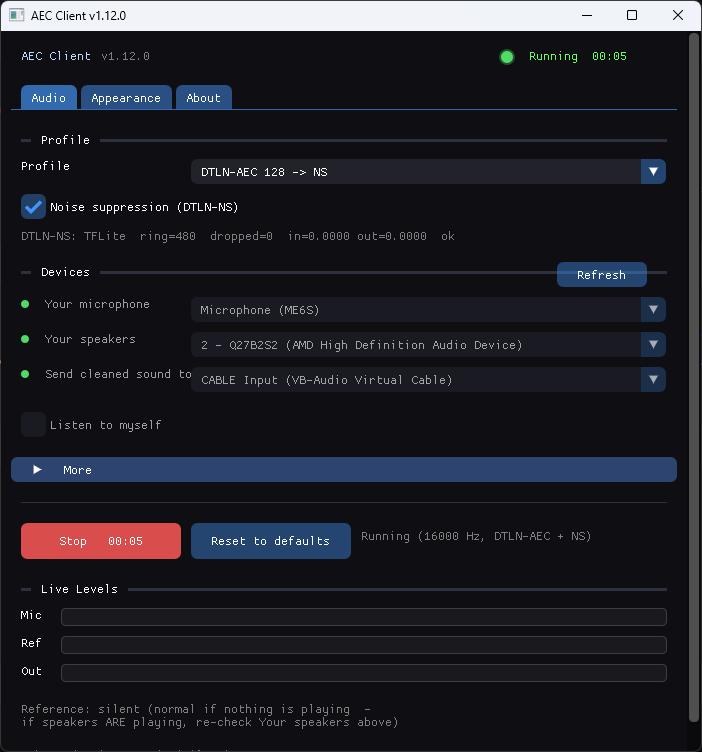
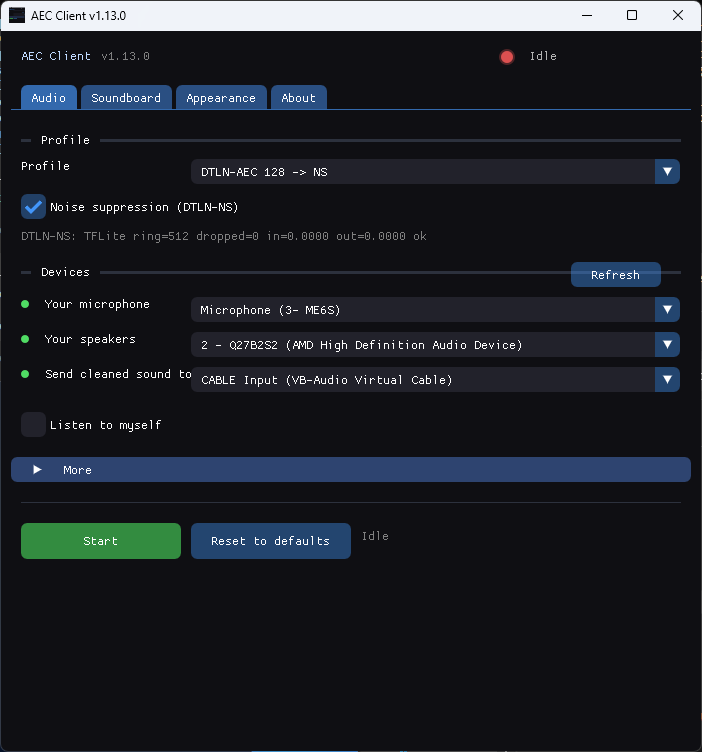
docs(release): v1.13.0 notes, screenshots, VirusTotal record
- CHANGELOG: [Unreleased] -> [1.13.0] - 2026-10-12 (fresh empty
  Unreleased on top); drop the redundant (v1.13.0) tag on the
  soundboard bullet.
- README: hero swaps the deleted side-by-side composite for the
  new main.png + web-ui.png; VirusTotal record v1.12.0 -> v1.13.0
  (both zips 0 detections, exe SecureAge-only, per pre-publish
  scans); structure lists both screenshots.
- web/ui/imgui_web.js: Listen hint no longer claims the Output row
  is hidden while on (showListen keeps it visible + relabeled) —
  retake web-ui.png after rebuilding so the shot matches.

diff --git a/web/ui/imgui_web.js b/web/ui/imgui_web.js
@@ -143,7 +143,7 @@ class WebImGuiUI {
             '<div id="ig-devhint" class="hint" style="color:#ffd75e"></div>' +
             '<label class="chkline"><input type="checkbox" id="ig-listen">Listen to myself</label>' +
             '<div class="hint">Hear yourself through your speakers instead of sending to voice apps — for testing. ' +
-            'Applies after Stop -&gt; Start; the Output row above is hidden while on.</div>';
+            'Applies after Stop -&gt; Start; the Output row above picks the destination in both modes.</div>';
         p.appendChild(rows);
 
         // --- More (Processing + Levels, like the desktop CollapsingHeader) ---

diff --git a/README.md b/README.md
@@ -2,9 +2,10 @@
 
 > Real-time acoustic echo cancellation for Windows — use speakers and a microphone at the same time in Discord, Zoom, Teams, or any other voice app.
 
-![AEC Client — desktop app (left) and web UI (right), same Running state](screenshots/desktop-and-web.png)
+![AEC Client v1.13.0 desktop app](screenshots/main.png)
+![AEC Web v1.13.0 native window](screenshots/web-ui.png)
 
-*Left: desktop `aec_gui.exe`. Right: web UI served from this repo (`web/start.bat`). Same three profiles, same chain, same telemetry — pick the window you prefer.*
+*Top: desktop `aec_gui.exe`. Bottom: web UI in its native window (`web/start.bat`). Same three profiles, same chain, same telemetry — pick the window you prefer.*
 
 **Built entirely with open-source tools.** No proprietary SDKs. No cloud dependencies. No telemetry.
 
@@ -164,7 +165,7 @@ Done. Talk normally with speakers on.
 > Every release is built straight from the public source in this repo
 > — audit it, rebuild it, or scan the ZIP on VirusTotal if unsure.
 >
-> **VirusTotal record (v1.12.0, pre-publish scans).** Both release
+> **VirusTotal record (v1.13.0, pre-publish scans).** Both release
 > ZIPs scan **0 detections**. The standalone `aec_gui.exe` draws one
 > flag — SecureAge only (unsigned-file reputation); Defender,
 > Bitdefender, Kaspersky and ESET are clean, and its behavior tab is
@@ -588,7 +589,8 @@ aec-client/
 │   └── README.md               Web UI docs
 │
 ├── screenshots/
-│   └── main.png                    README image
+│   ├── main.png                    Desktop README image
+│   └── web-ui.png                  Web UI README image
 │
 ├── wallpapers/                     User-supplied backgrounds
 │

diff --git a/CHANGELOG.md b/CHANGELOG.md
@@ -7,9 +7,11 @@ and this project adheres to [Semantic Versioning](https://semver.org/spec/v2.0.0
 
 ## [Unreleased]
 
+## [1.13.0] - 2026-10-12
+
 ### Added
 
-- **Soundboard (v1.13.0).** Drop `.wav` / `.mp3` / `.flac` / `.ogg` files
+- **Soundboard.** Drop `.wav` / `.mp3` / `.flac` / `.ogg` files
   into the `sounds/` folder and play them on top of your voice — one
   pad at a time, a new click takes over. Desktop (`src/main.cpp`) and
   web (`web/soundboard.py`) both scan the folder at startup, decode
